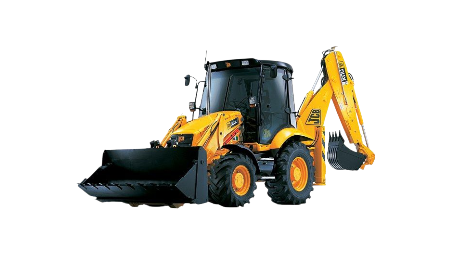
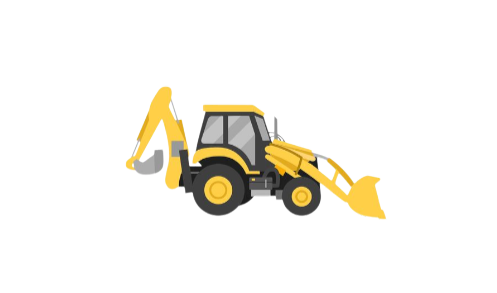
Some changes

Changed region(s): [[0.1549, 0.1733, 0.8363, 0.7509]]

diff --git a/lib/Pages/activity.dart b/lib/Pages/activity.dart
@@ -40,16 +40,26 @@ class _ActivityState extends State<Activity> {
           child: Column(
             crossAxisAlignment: CrossAxisAlignment.start,
             children: [
-              Text(
-                "Recent Activity",
-                style: TextStyle(
-                  fontSize: screenHeight * 0.028, // Responsive font size
-                  fontWeight: FontWeight.bold,
-                  color: Colors.black87,
-                  fontFamily: "Poppins",
-                ),
+              Row(
+                mainAxisAlignment: MainAxisAlignment.spaceBetween,
+                children: [
+                  Text(
+                    "Recent Activity",
+                    style: TextStyle(
+                      fontSize: screenHeight * 0.03, // Responsive font size
+                      fontWeight: FontWeight.bold,
+                      color: Colors.black87,
+                      fontFamily: "Poppins",
+                    ),
+                  ),
+                  Icon(
+                    Icons.search,
+                    color: Colors.grey.shade600,
+                    size: screenHeight * 0.03,
+                  ),
+                ],
               ),
-              SizedBox(height: screenHeight * 0.015),
+              SizedBox(height: screenHeight * 0.02),
 
               // Expanded ListView for activity cards
               Expanded(
@@ -61,10 +71,8 @@ class _ActivityState extends State<Activity> {
                           'https://via.placeholder.com/100', // Dummy image URL
                       name: 'Naresh Kumar', // Sample name
                       serviceName: 'Plumbing Service', // Sample service name
-                      screenWidth:
-                          screenWidth, // Pass screenWidth for responsive layout
-                      screenHeight:
-                          screenHeight, // Pass screenHeight for responsive layout
+                      screenWidth: screenWidth, // Pass screenWidth
+                      screenHeight: screenHeight, // Pass screenHeight
                       onCallPressed: () {
                         // Handle call button action
                       },
@@ -94,19 +102,19 @@ class _ActivityState extends State<Activity> {
       ),
       padding: EdgeInsets.all(screenHeight * 0.015), // Responsive padding
       decoration: BoxDecoration(
-        color: Colors.white,
-        borderRadius: BorderRadius.circular(
-            screenHeight * 0.015), // Responsive border radius
-        border: Border.all(
-          color: Colors.grey.shade300,
-          width: 1,
+        gradient: LinearGradient(
+          colors: [Colors.blue.shade50, Colors.white],
+          begin: Alignment.topLeft,
+          end: Alignment.bottomRight,
         ),
+        borderRadius:
+            BorderRadius.circular(screenHeight * 0.02), // Border radius
         boxShadow: [
           BoxShadow(
             color: Colors.grey.withOpacity(0.15),
             spreadRadius: 1,
-            blurRadius: 4,
-            offset: const Offset(0, 2), // Slight shadow effect
+            blurRadius: 5,
+            offset: const Offset(0, 3),
           ),
         ],
       ),
@@ -114,25 +122,27 @@ class _ActivityState extends State<Activity> {
         children: [
           // Profile Image with Circular Border
           Container(
-            width: screenHeight * 0.07, // Responsive profile image size
-            height: screenHeight * 0.07,
+            width: screenHeight * 0.08,
+            height: screenHeight * 0.08,
             decoration: BoxDecoration(
               shape: BoxShape.circle,
-              border: Border.all(
-                color: const Color(0xFF1976D2),
-                width: 2,
-              ),
+              border: Border.all(color: const Color(0xFF1976D2), width: 2),
               image: DecorationImage(
                 image: NetworkImage(profileImageUrl),
                 fit: BoxFit.cover,
               ),
+              boxShadow: [
+                BoxShadow(
+                  color: Colors.blue.withOpacity(0.4),
+                  blurRadius: 5,
+                  spreadRadius: 1,
+                ),
+              ],
             ),
           ),
-          SizedBox(
-              width: screenWidth *
-                  0.04), // Responsive space between image and text
+          SizedBox(width: screenWidth * 0.04),
 
-          // Name, Service, and Call Button
+          // Name, Service, and Action Buttons
           Expanded(
             child: Column(
               crossAxisAlignment: CrossAxisAlignment.start,
@@ -147,57 +157,28 @@ class _ActivityState extends State<Activity> {
                   ),
                   overflow: TextOverflow.ellipsis,
                 ),
-                SizedBox(
-                    height: screenHeight *
-                        0.005), // Responsive space between name and service name
+                SizedBox(height: screenHeight * 0.005),
                 Text(
-                  serviceName, // Display service name
+                  serviceName,
                   style: TextStyle(
-                    fontSize: screenHeight * 0.018, // Responsive font size
+                    fontSize: screenHeight * 0.018,
                     fontWeight: FontWeight.w500,
                     color: Colors.grey.shade600,
                     fontFamily: "Poppins",
                   ),
                 ),
-                SizedBox(
-                    height: screenHeight *
-                        0.008), // Responsive space before call action
-                Row(
-                  children: [
-                    Icon(
-                      Icons.phone,
-                      color: const Color(0xFF1976D2),
-                      size: screenHeight * 0.02, // Responsive icon size
-                    ),
-                    SizedBox(width: screenWidth * 0.02),
-                    Text(
-                      "Tap to Call",
-                      style: TextStyle(
-                        fontSize: screenHeight * 0.018, // Responsive font size
-                        color: const Color(0xFF1976D2),
-                        fontWeight: FontWeight.w500,
-                      ),
-                    ),
-                  ],
-                ),
               ],
             ),
           ),
-
-          // Call Button with Icon
-          ElevatedButton(
+          // Call Button
+          IconButton(
             onPressed: onCallPressed,
-            style: ElevatedButton.styleFrom(
-              shape: const CircleBorder(),
-              backgroundColor: const Color(0xFF1976D2),
-              padding:
-                  EdgeInsets.all(screenHeight * 0.015), // Responsive padding
-            ),
-            child: Icon(
+            icon: Icon(
               Icons.phone,
               color: Colors.white,
-              size: screenHeight * 0.025, // Responsive call icon size
             ),
+            color: const Color(0xFF1976D2),
+            iconSize: screenHeight * 0.04,
           ),
         ],
       ),

diff --git a/lib/Pages/home.dart b/lib/Pages/home.dart
@@ -56,18 +56,17 @@ class _HomePageState extends State<HomePage> {
                 children: [
                   _buildTitleText("Explore Services"),
                   const SizedBox(height: 20),
-                  _buildServiceCard('Consultation', 'images/addimage.png',
+                  _buildServiceCard('Consultation', 'images/tractor.png',
                       'Expert consultation available.', screenSize),
-                  const SizedBox(height: 20),
-                  _buildServiceCard('Consultation', 'images/addimage.png',
-                      'Expert consultation available.', screenSize),
-                  const SizedBox(height: 20),
-                  _buildServiceCard('Consultation', 'images/addimage.png',
-                      'Expert consultation available.', screenSize),
-                  const SizedBox(height: 20),
-                  _buildServiceCard('Consultation', 'images/addimage.png',
-                      'Expert consultation available.', screenSize),
-                  const SizedBox(height: 20),
+                  _buildServiceCard('JCB Service', 'images/jcb.png',
+                      'Heavy-duty machinery services.', screenSize),
+                  _buildServiceCard('Rotavator Service', 'images/Rotavator.png',
+                      'Efficient field preparation services.', screenSize),
+                  _buildServiceCard(
+                      'Custom Service',
+                      'images/addimage.png',
+                      'Specialized services tailored to your needs.',
+                      screenSize),
                 ],
               ),
             ),
@@ -105,9 +104,7 @@ class _HomePageState extends State<HomePage> {
                       color: Colors.blueAccent, size: 25),
                   const SizedBox(width: 10),
                   GestureDetector(
-                    onTap: () {
-                      _showLocationDropdown();
-                    },
+                    onTap: _showLocationDropdown,
                     child: Text(
                       selectedLocation,
                       style: const TextStyle(
@@ -120,9 +117,7 @@ class _HomePageState extends State<HomePage> {
                 ],
               ),
               GestureDetector(
-                onTap: () {
-                  _showLocationDropdown();
-                },
+                onTap: _showLocationDropdown,
                 child:
                     const Icon(Icons.arrow_drop_down, color: Colors.blueAccent),
               ),
@@ -203,10 +198,11 @@ class _HomePageState extends State<HomePage> {
       String title, String imagePath, String description, Size screenSize) {
     return GestureDetector(
       onTap: () {
-        Navigator.push(
-            context, MaterialPageRoute(builder: (context) => ServiceDetail()));
+        Navigator.push(context,
+            MaterialPageRoute(builder: (context) => const ServiceDetail()));
       },
       child: Container(
+        margin: const EdgeInsets.only(bottom: 20),
         height: screenSize.height * 0.18, // 18% of screen height
         decoration: BoxDecoration(
           color: Colors.white,
